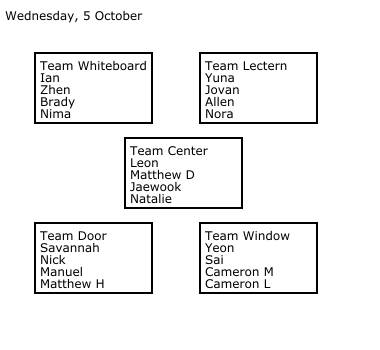
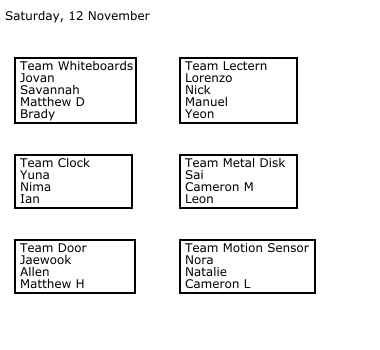
experiment with svg coords

diff --git a/makeSmallGroups_drawSVGLearn.py b/makeSmallGroups_drawSVGLearn.py
@@ -1,0 +1,131 @@
+def makeSmallGroups():
+
+    import random
+    import os
+    import sys
+    import xlsxwriter
+    import pandas as pd
+    import drawSvg as draw
+    from datetime import date
+
+    # Get command-line arguments
+    if len(sys.argv)>1:
+        courseNumber = sys.argv[1]
+    else:
+        courseNumber = 'M227C'
+
+    emSize = 12
+
+    layout = 'B'
+
+    print((courseNumber == 'P230' and layout == 'B'))
+
+    # rectangle positions are specified by bottom left corner
+
+    studentListFile = 'studentList_' + courseNumber + '.xlsx'
+    if courseNumber == 'M227C':
+        ySize = 200
+        Teams_list = [
+            ['Whiteboard',   [200, 102, 117, 70], 4],
+            ['Door',         [  5,  17, 117, 70], 4],
+            ['Window',       [250,  17, 117, 70], 4],
+            ['Lectern',      [ 35, 102, 117, 70], 4],
+            ['Projector',    [125,  17, 117, 70], 4]
+            ]
+        datepos = [5, 20]
+    elif courseNumber == 'P50':
+        ySize = 200
+        yShift = ySize/2+20
+        Teams_list = [
+            ['Lectern',     [200, yShift- 30, 117, 70], 4],
+            ['Back Corner', [  5, yShift-115, 120, 70], 4],
+            ['Back Door',   [250, yShift-115, 117, 70], 4],
+            ['Front Door',  [ 35, yShift- 30, 117, 70], 4],
+            ['Middle',      [125, yShift-115, 117, 70], 4]
+            ]
+        datepos = [5, 20]
+    elif (courseNumber == 'P230' and layout == 'B'):
+        print(layout)
+        ySize = 350
+        yShift = ySize/2+70
+        Teams_list = [
+            ['Door',          [ 15,  57, 120], 3],
+            ['Clock',         [ 15, 142, 117], 3],
+            ['Whiteboards',   [ 15, 227, 121], 4],
+            ['Motion Sensor', [180,  57, 135], 3],
+            ['Metal Disk',    [180, 142, 117], 3],
+            ['Lectern',       [180, 227, 117], 4]
+            ]
+        datepos = [5, 20]
+    elif courseNumber == 'P230':
+        ySize = 350
+        yShift = ySize/2+70
+        Teams_list = [
+            ['Lectern',      [200, 227, 117, 80], 5],
+            ['Door',         [ 35,  57, 117, 70], 4],
+            ['Window',       [200,  57, 117, 70], 4],
+            ['Whiteboard',   [ 35, 227, 117, 70], 4],
+            ['Center',       [125, 142, 117, 70], 4]
+            ]
+        datepos = [5, 20]
+
+    # SHUFFLE STUDENTS
+
+    student_df = pd.read_excel(studentListFile)
+    student_list = list(student_df['Students'])
+
+    print(student_list)
+    print(len(student_list))
+
+    random.shuffle(student_list)
+
+    print(student_list)
+    print(len(student_list))
+
+    # DATE
+
+    today = date.today()
+
+    datestr = today.strftime("%A, %-d %B")
+    print(datestr)
+
+    Teams = pd.DataFrame(Teams_list, columns=['Name', 'Coords', 'NumberOfThinkers'])
+
+    d = draw.Drawing(380, ySize, origin=(0,0), displayInline=False)
+
+    iStudent = 0
+    for iTeam, thisTeam in Teams.iterrows():
+        if iStudent < len(student_list):
+            box = draw.Rectangle(
+                thisTeam['Coords'][0],
+                thisTeam['Coords'][1],
+                thisTeam['Coords'][2],
+                (thisTeam['NumberOfThinkers']+1)*emSize+5,#thisTeam['Coords'][3],
+                fill='#ffffff',stroke_width=2,stroke='black')
+
+            groupLabel = draw.Text('Team ' + thisTeam['Name'],
+                12,thisTeam['Coords'][0]+5,thisTeam['Coords'][1]+emSize*thisTeam['NumberOfThinkers']+5,fill='black')
+            d.append(box)
+            d.append(groupLabel)
+            for iStudent_inThisTeam in range(thisTeam['NumberOfThinkers']):
+                studentLabel = draw.Text(student_list[iStudent],
+                    12,
+                    thisTeam['Coords'][0]+5,
+                    thisTeam['Coords'][1]+emSize*thisTeam['NumberOfThinkers']+5-emSize*(iStudent_inThisTeam+1),
+                    fill='black')
+                iStudent = iStudent + 1
+                d.append(studentLabel)
+                if iStudent >= len(student_list):
+                    break
+   
+    d.append(draw.Text(datestr, 12, datepos[0], ySize-datepos[1], fill='black'))
+
+    d.saveSvg('teams_' + courseNumber + '.svg')
+
+    os.system('/Applications/Inkscape.app/Contents/MacOS/inkscape teams_' + courseNumber + '.svg -o teams_' + courseNumber + '.png')
+
+    if courseNumber=='M227C':
+         os.system('./sendToGithub.sh')
+
+if __name__ == '__main__':
+    makeSmallGroups()

diff --git a/scratch_svg.py b/scratch_svg.py
@@ -1,0 +1,43 @@
+import random
+import os
+import sys
+import xlsxwriter
+import pandas as pd
+import drawSvg as draw
+from datetime import date
+
+
+
+ySize = 350
+xSize = 380
+
+emSize = 12
+
+
+d = draw.Drawing(xSize, ySize, origin=(0,0), displayInline=False)
+
+box2 = draw.Rectangle(0, 0, xSize, ySize,
+    fill='#ffffff',stroke_width=2,stroke='red')
+d.append(box2)
+
+box1 = draw.Rectangle(0, 10, 20, 30,
+    fill='#ffffff',stroke_width=2,stroke='black')
+d.append(box1)
+
+
+
+
+groupLabel = draw.Text('Hello World',
+                12,
+                50,60,
+                fill='black')
+d.append(groupLabel)
+
+box1 = draw.Rectangle(50, 60, 80, emSize,
+    fill='none',stroke_width=2,stroke='black')
+d.append(box1)
+
+filename = 'test_' + '1' + '.svg'
+
+d.saveSvg(filename)
+os.system('/Applications/Inkscape.app/Contents/MacOS/inkscape ' + filename + ' -o ' + filename + '.png')

diff --git a/scratchpad.py b/scratchpad.py
@@ -1,0 +1,17 @@
+# ySize = 200
+# yShift = ySize/2+20
+# print(yShift- 30+12)
+# print(yShift-115+12)
+# print( yShift-115+12)
+# print(yShift- 30+12)
+# print(yShift-115+12)
+
+
+ySize = 350
+yShift = ySize/2+70
+print(yShift- 30+12)
+print(yShift-200+12)
+print(yShift-200+12)
+print(yShift- 30+12)
+print(yShift-115+12)
+
